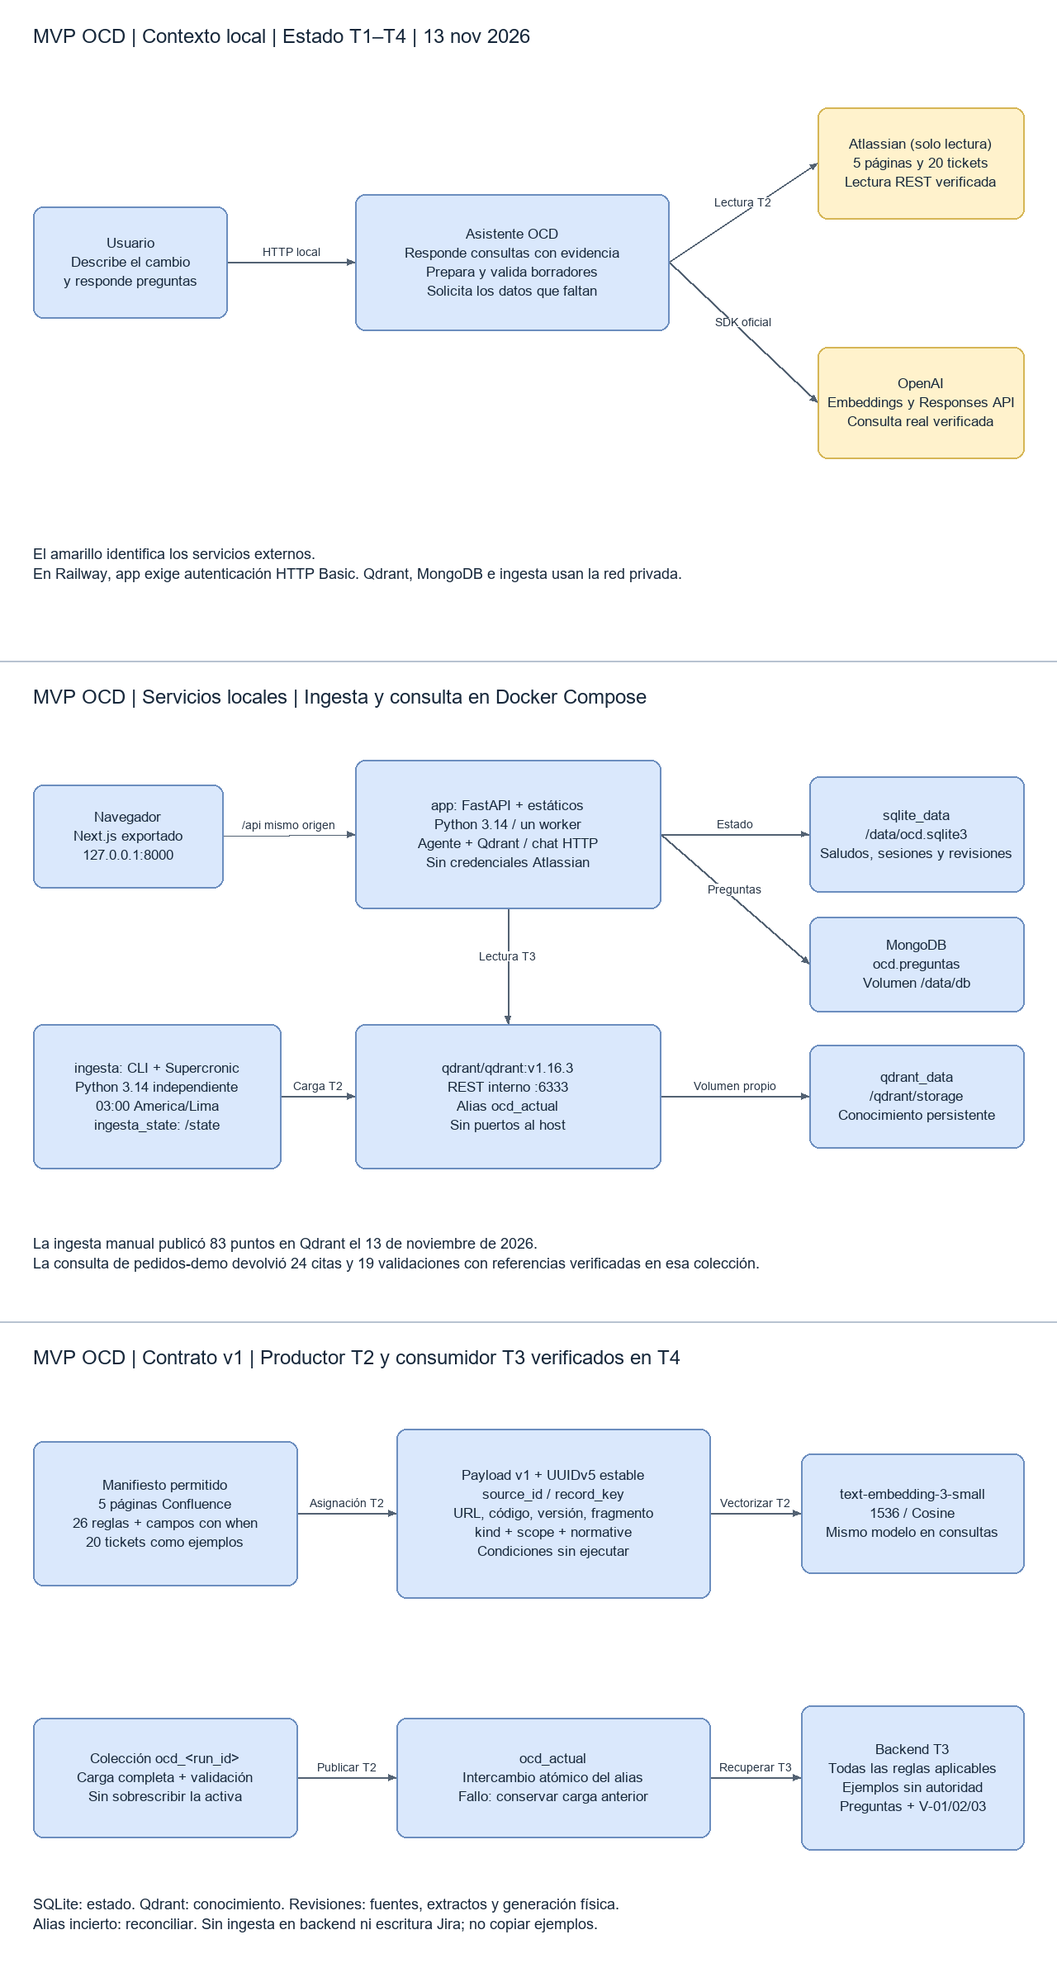
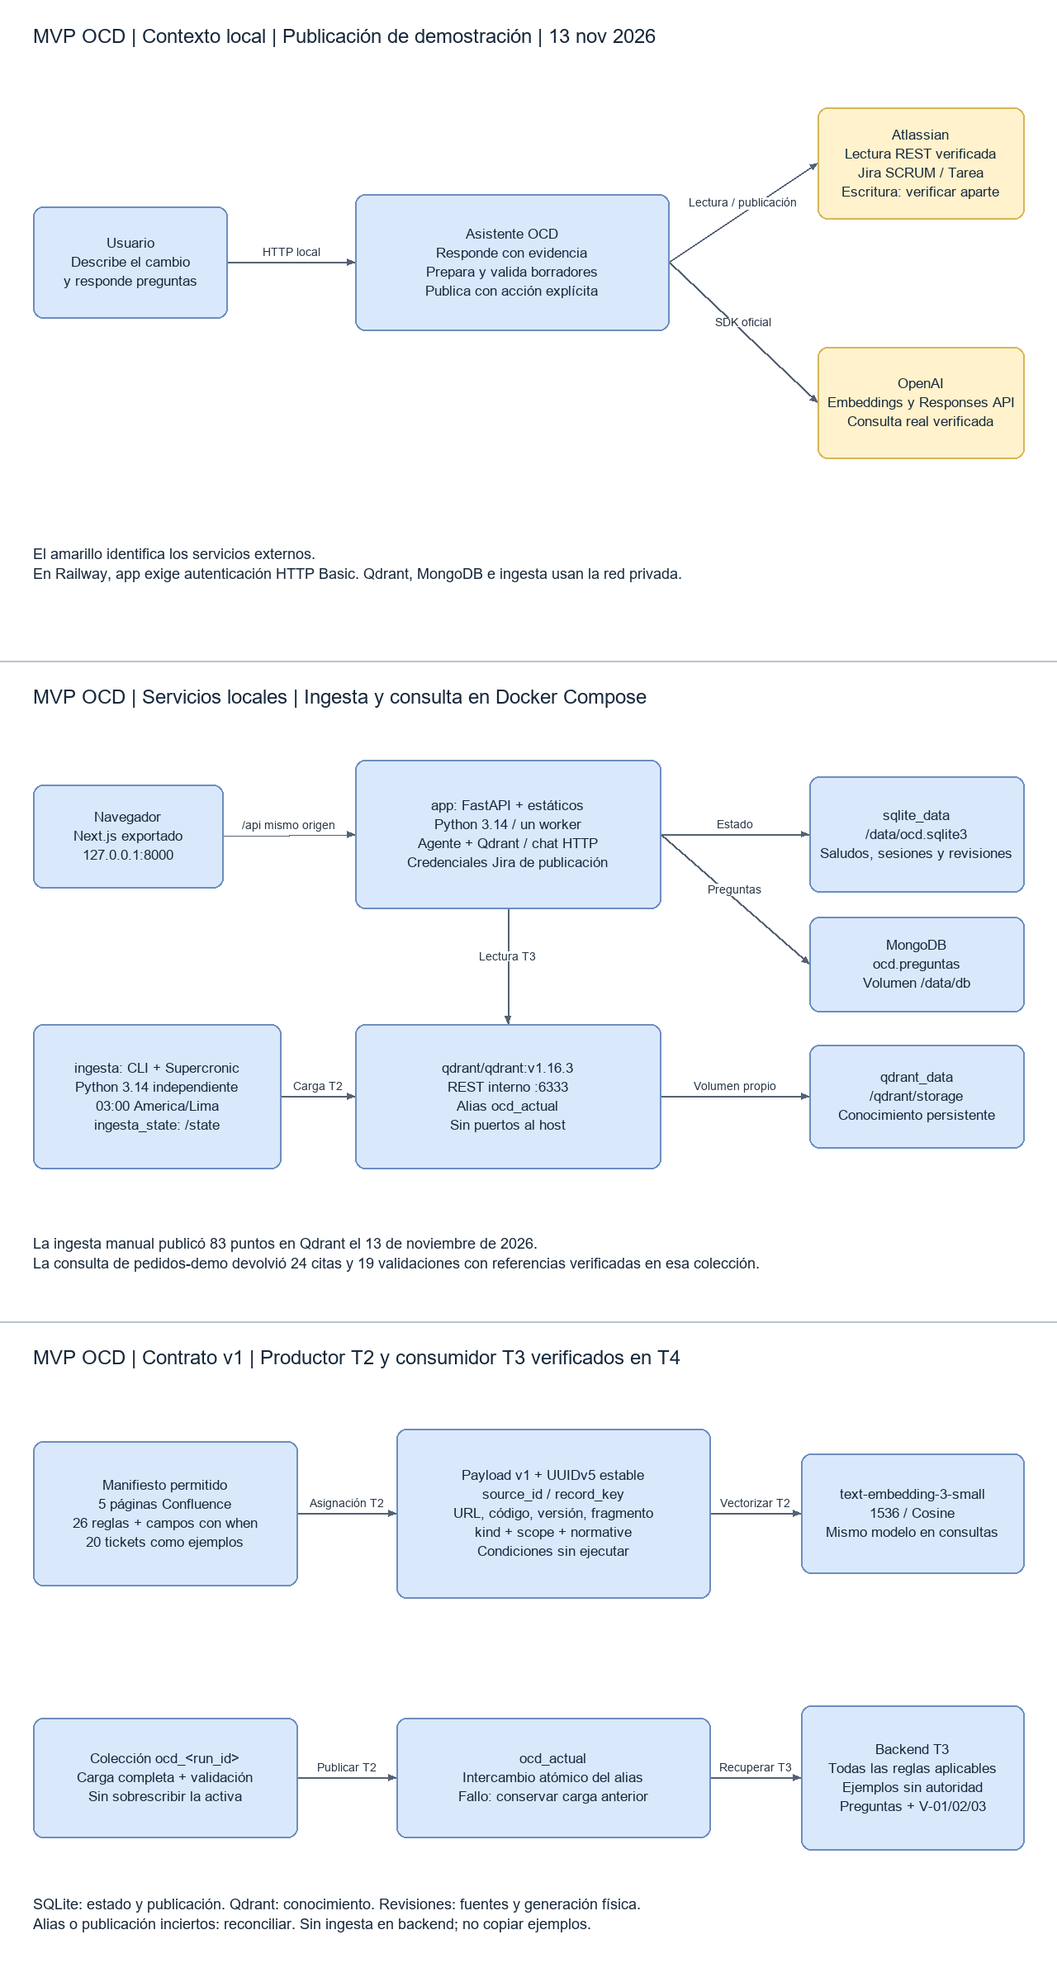
Documenta y verifica publicación OCD de demostración

diff --git a/scripts/acceptance/probe.py b/scripts/acceptance/probe.py
@@ -126,6 +126,30 @@ def main(phase: str) -> None:
             )
             EVIDENCE.write_text(json.dumps(evidence))
             double.post("/control", json={"atlassian": False}).raise_for_status()
+        elif phase == "publication":
+            first = app.post("/api/chat", json={"message": "Quiero un pase a producción"}).raise_for_status().json()
+            assert first["questions"] == ["¿Qué microservicio vas a pasar y qué versión quieres publicar?"]
+            assert first["preview"] is None
+            second = app.post("/api/chat", json={"message": "Pedidos, versión 1.9.0. Corrige la duplicación de pedidos."}).raise_for_status().json()
+            preview = second["preview"]
+            assert preview["title"] == "Pase a producción de Pedidos 1.9.0"
+            assert preview["pending"] == ["ventana", "responsable", "repositorio", "pruebas", "reversión"]
+            assert "Corrige la duplicación de pedidos." in preview["description"]
+            revision = second["revision"]
+            result = app.post(f"/api/chat/revisions/{revision}/publish")
+            assert result.status_code == 201, result.text
+            assert result.json() == {"key": "SCRUM-999", "url": "https://grupo-visai.atlassian.net/browse/SCRUM-999"}
+            fields = double.get("/captured").raise_for_status().json()["issues"][0]["fields"]
+            assert fields["project"] == {"key": "SCRUM"} and fields["issuetype"] == {"id": "10003"}
+            assert fields["summary"] == preview["title"]
+            nodes = fields["description"]["content"][0]["content"]
+            assert "".join("\n" if n["type"] == "hardBreak" else n["text"] for n in nodes) == preview["description"]
+            assert app.post(f"/api/chat/revisions/{revision}/publish").status_code == 200
+            assert len(double.get("/captured").json()["issues"]) == 1
+            assert app.get("/api/chat").json()["publication"] == result.json()
+            evidence = json.loads(EVIDENCE.read_text())
+            evidence.update(publication_cookie=app.cookies.get("ocd_session"), publication=result.json())
+            EVIDENCE.write_text(json.dumps(evidence))
         else:
             evidence = json.loads(EVIDENCE.read_text())
             app.cookies.set("ocd_session", evidence["cookie"], path="/api/chat")
@@ -151,6 +175,11 @@ def main(phase: str) -> None:
                 double.post("/control", json={"openai": True}).raise_for_status()
                 EVIDENCE.write_text(json.dumps(evidence | {"last_reviewed": result}))
             elif phase == "resume":
+                with httpx.Client(base_url="http://localhost:8000", timeout=15) as published:
+                    published.cookies.set("ocd_session", evidence["publication_cookie"], path="/api/chat")
+                    assert published.get("/api/chat").json()["publication"] == evidence["publication"]
+                    assert published.post("/api/chat/revisions/2/publish").status_code == 200
+                    assert len(double.get("/captured").json()["issues"]) == 1
                 assert app.get("/api/chat").json()["revision"] == 4
                 assert app.get("/api/chat/revisions/3").json() == evidence["last_reviewed"]
                 result = (

diff --git a/scripts/acceptance/server.py b/scripts/acceptance/server.py
@@ -11,6 +11,7 @@ from threading import Thread
 from urllib.parse import urlsplit
 
 STATE = {"atlassian": True, "openai": True}
+ISSUES = []
 
 
 def response(output: list[dict]) -> dict:
@@ -50,6 +51,9 @@ class Handler(BaseHTTPRequestHandler):
         if path == "/health":
             self.send(200, STATE)
             return
+        if path == "/captured":
+            self.send(200, {"issues": ISSUES})
+            return
         expected = base64.b64encode(b"acceptance@example.test:acceptance-fictional-token").decode()
         if self.headers.get("Authorization") != "Basic " + expected:
             self.send(401, {})
@@ -71,6 +75,14 @@ class Handler(BaseHTTPRequestHandler):
         if self.path == "/control":
             STATE.update(body)
             self.send(200, STATE)
+            return
+        if self.path == "/rest/api/3/issue":
+            expected = base64.b64encode(b"acceptance@example.test:acceptance-fictional-token").decode()
+            if self.headers.get("Authorization") != "Basic " + expected:
+                self.send(401, {})
+                return
+            ISSUES.append(body)
+            self.send(201, {"key": "SCRUM-999"})
             return
         if not STATE["openai"]:
             self.send(503, {"error": {"message": "Fallo sintético", "type": "server_error"}})
@@ -143,6 +155,19 @@ class Handler(BaseHTTPRequestHandler):
 def extraction(messages: list[dict]) -> dict:
     facts, categories = {}, {}
     for message in messages:
+        content = message["content"]
+        for scope, name, value, quote in (
+            ("comun", "ambiente_objetivo", "producción", "producción"),
+            ("microservicio", "microservicio", "Pedidos", "Pedidos"),
+            ("microservicio", "version_objetivo", "1.9.0", "1.9.0"),
+            ("comun", "objetivo", "Corrige la duplicación de pedidos.", "Corrige la duplicación de pedidos."),
+        ):
+            if quote in content:
+                facts[f"{scope}.{name}"] = {"scope": scope, "name": name, "value": value,
+                    "quote": quote, "message_id": message["id"]}
+        if "pase a producción" in content:
+            categories["microservicio"] = {"category": "microservicio", "selected": True,
+                "quote": "pase a producción", "message_id": message["id"]}
         for line in message["content"].splitlines():
             if "=" not in line:
                 continue

diff --git a/README.md b/README.md
@@ -5,7 +5,8 @@ integra PR de funcionalidades, releases y hotfix sin aprobaciones ni checks
 obligatorios. La publicación en Railway requiere verificar la entrega.
 
 Asistente local para preparar un borrador OCD mediante conversación, conocimiento
-Qdrant y validaciones Python V-01, V-02 y V-03. No crea tickets ni ejecuta cambios.
+Qdrant y validaciones Python V-01, V-02 y V-03. Permite publicar una vista previa
+confirmada como Tarea Jira; no ejecuta cambios de infraestructura.
 
 T1 integra Qdrant y el contrato; T2 implementa ingesta independiente, CLI y cron;
 T3 implementa sesiones, extracción mediante Responses API y revisión persistente.
@@ -14,8 +15,8 @@ El 13 de noviembre de 2026, la ingesta real publicó 83 puntos en Qdrant a parti
 En una consulta de microservicios coincidieron las 24 citas del agente y las referencias de sus 19 validaciones con los puntos publicados.
 Consulta la [evidencia de la ingesta real y el cotejo de citas](docs/verificacion_t4.md#ingesta-real-y-verificación-de-citas).
 La interfaz NexoOPS permite conversar con el agente y buscar procedimientos.
-Mantiene un borrador real por sesión. Los tickets de ejemplo y las vistas de agenda
-y vista previa son demostraciones; no consultan ni crean tickets Jira.
+Mantiene un borrador real por sesión. Los tickets de ejemplo y la agenda son demostraciones.
+La vista previa del chat corresponde a la revisión guardada y permite publicarla.
 
 ## Configurar y ejecutar
 
@@ -32,11 +33,14 @@ para construir las imágenes. Copia `.env.example` a `.env`. Configura:
 | `OPENAI_MODEL` | Modelo de conversación; decisión actual `gpt-6-luna`. |
 | `ATLASSIAN_BASE_URL` | Origen HTTPS autorizado: `https://grupo-visai.atlassian.net`. |
 | `ATLASSIAN_EMAIL`, `ATLASSIAN_API_TOKEN` | Solo ingesta; permiso de lectura sobre las 25 fuentes autorizadas. |
+| `JIRA_BASE_URL` | Destino autorizado `https://grupo-visai.atlassian.net`. |
+| `JIRA_EMAIL`, `JIRA_API_TOKEN` | Credenciales de publicación del backend; Compose recurre a las credenciales de ingesta si se omiten. |
+| `JIRA_PROJECT_KEY`, `JIRA_ISSUE_TYPE_ID` | Destino fijado a `SCRUM` y tipo Tarea `10003`. |
 | `QDRANT_ALIAS` | Contrato v1: `ocd_actual`. |
 | `OPENAI_EMBEDDING_MODEL` | Contrato v1: `text-embedding-3-small`, 1536 dimensiones/Cosine. |
 
-No guardar credenciales en Git ni usar `NEXT_PUBLIC_*`. El backend no recibe
-credenciales Atlassian: consulta el corpus ya publicado. Sin clave OpenAI o sin
+No guardar credenciales en Git ni usar `NEXT_PUBLIC_*`. El backend consulta el
+corpus ya publicado y usa credenciales Jira para publicar. Sin clave OpenAI o sin
 primera carga válida, chat/búsqueda devuelven 503; salud y saludo siguen disponibles.
 
 Desde la raíz:
@@ -53,6 +57,19 @@ Abre [la aplicación local](http://127.0.0.1:8000) y
 Supercronic ejecuta `ocd-ingestar` cada día a las 03:00 `America/Lima`.
 El bloqueo compartido evita cargas solapadas. Una máquina apagada no recupera
 horarios omitidos: ejecuta la CLI manualmente. Consulta la [guía de ingesta](ingesta/README.md).
+
+Para revisar la candidata integrada en el proyecto local de demostración, con el
+archivo de entorno ya configurado y sin ejecutar una ingesta adicional:
+
+```powershell
+$env:APP_PORT = '3001'
+docker compose -p ocd-demo-preview --env-file C:/Desarrollo/grupo-visa-ai/.env up -d --build --wait app
+```
+
+Abre [la candidata](http://localhost:3001). Escribe «Quiero un pase a producción»;
+cuando pregunte por servicio y versión, responde «Pedidos, versión 1.9.0. Corrige
+la duplicación de pedidos.». Revisa la vista previa y los pendientes antes de decidir
+si publicas. El botón de publicación usa las credenciales Jira configuradas en `app`.
 
 ```powershell
 docker compose up -d --force-recreate --wait
@@ -112,6 +129,7 @@ No se reutilizan identificadores ni evidencias de tickets históricos como datos
 | `POST /api/chat` | Recibe `{"message":"..."}` y devuelve `answer`, el borrador y la evidencia aplicable al turno. Un fallo al registrar la pregunta o consultar una dependencia puede devolver 503. |
 | `GET /api/chat` | Última revisión de la sesión, incluida una revisión indisponible. |
 | `GET /api/chat/revisions/{revision}` | Revisión histórica de la misma sesión, conservada aunque fallen servicios o cambie el alias. |
+| `POST /api/chat/revisions/{revision}/publish` | Publica la vista previa vigente de la sesión como Tarea SCRUM; devuelve clave y enlace. Una repetición confirmada recupera el resultado. |
 | `GET /api/integrations` | Presencia de configuración del proceso backend; no prueba conexiones ni inspecciona el entorno de ingesta. |
 
 Si falla Atlassian, la consulta y el chat siguen usando la última colección válida,
@@ -173,6 +191,10 @@ powershell -NoProfile -File scripts/Test-QdrantPersistence.ps1
 La aceptación T4 no requiere credenciales reales: HTTPS Atlassian usa un certificado
 y snapshots de prueba; OpenAI usa respuestas y vectores sintéticos. Qdrant, la CLI,
 Responses SDK, FastAPI, cookies, SQLite y recreación de contenedores sí se ejecutan.
+El mismo proyecto aislado comprueba el pase de Pedidos 1.9.0 y la publicación
+HTTP contra Jira simulado, con credenciales y certificado ficticios. Comprueba el
+contenido ADF, la clave, el enlace y la recuperación sin duplicar el POST. No verifica
+la escritura ni los permisos del Jira real.
 El script elimina exclusivamente su propio proyecto `ocd-t4-<UUID>` y sus volúmenes.
 El frontend se construye mediante el Dockerfile normal con TypeScript y Next.js;
 no se copian archivos compilados del proyecto principal.

diff --git a/docs/MVP_OCD_Arquitectura.md b/docs/MVP_OCD_Arquitectura.md
@@ -1,11 +1,12 @@
 # Arquitectura MVP OCD — Compose y Railway
 
-Versión 0.6. Fecha: 13 de noviembre de 2026. Estado T1–T4.
+Versión 0.7. Fecha: 13 de noviembre de 2026. Estado T1–T4 y publicación local de demostración.
 
 ## 1. Alcance y estado
 
 La solución prepara un borrador OCD, solicita datos desconocidos y ejecuta
-V-01/02/03 con fuentes y versiones. No crea tickets Jira ni ejecuta infraestructura.
+V-01/02/03 con fuentes y versiones. La revisión vigente puede publicarse por
+acción explícita como Tarea Jira en SCRUM. No ejecuta infraestructura.
 En la red privada de Railway se verificó la carga de 83 puntos y la coincidencia
 de las 24 citas y 19 referencias de una consulta. El entorno incorpora aplicación,
 ingesta, Qdrant y MongoDB, con cuatro volúmenes persistentes.
@@ -23,7 +24,8 @@ conserva las propuestas anteriores de creación Jira y Railway.
 | Aceptación integrada | T4: Qdrant real y REST dobles; evidencia en `docs/verificacion_t4.md`. |
 | Servicios externos autenticados | Lectura REST de Confluence y Jira, embeddings y Responses API verificados en Compose local. |
 | Procedencia y relevancia | Las citas de una consulta coinciden con Qdrant. La evaluación general de relevancia sigue pendiente. |
-| Creación Jira y ejecución de cambios de infraestructura desde el agente | Fuera del alcance del MVP. |
+| Publicación Jira | Implementada para vista previa vigente, sesión propietaria y destino SCRUM/Tarea (10003); la escritura real requiere verificación independiente. |
+| Ejecución de cambios de infraestructura | Fuera del alcance. |
 
 T4 identificó y corrigió la diferencia entre las condiciones publicadas por T2
 y las firmas de reglas/fixtures del consumidor T3. La aceptación usa el índice
@@ -50,8 +52,12 @@ no publica 6333/6334. La red permite llamadas salientes. Node.js 24 interviene s
 en compilación; Python 3.14 ejecuta ambos proyectos independientes, con sus bloqueos.
 HTTPX evita un SDK Qdrant adicional. Backend e ingesta no importan código entre sí.
 
-El backend no descarga Atlassian ni ejecuta ingesta al arrancar. Compose entrega las
-credenciales Atlassian exclusivamente a ingesta. La API `/api/integrations` describe
+El backend no descarga Atlassian ni ejecuta ingesta al arrancar. Ingesta usa
+`ATLASSIAN_EMAIL` y `ATLASSIAN_API_TOKEN` para lectura; app usa `JIRA_EMAIL` y
+`JIRA_API_TOKEN` para escritura. Compose puede recurrir a las credenciales de lectura
+si las variables Jira se omiten. `JIRA_BASE_URL` debe ser `https://grupo-visai.atlassian.net`,
+`JIRA_PROJECT_KEY` debe ser `SCRUM` y `JIRA_ISSUE_TYPE_ID` debe ser `10003`.
+La API `/api/integrations` describe
 solo configuración del backend: los estados Jira/Confluence no inspeccionan ingesta,
 no prueban conectividad y no deben interpretarse como estado de su carga.
 `/api/health` verifica SQLite y estáticos sin llamadas externas ni datos de negocio.
@@ -104,6 +110,7 @@ impide consulta/chat del corpus publicado si Qdrant y OpenAI siguen disponibles.
    más recientes y permite retirar explícitamente categorías. No ejecuta red dentro de escrituras SQLite.
 5. Para revisar un borrador, el agente recupera conocimiento de Qdrant y Python ejecuta V-01, V-02 y V-03. El agente arma la respuesta con lo declarado por el solicitante y la evidencia disponible. Una consulta sin respaldo recibe una respuesta de información insuficiente.
 6. La API devuelve `answer` en el contrato habitual. Los turnos informativos conservan la revisión del borrador. Los cambios al borrador y sus validaciones se conservan en SQLite.
+7. Para un pase a producción con servicio y versión, sin errores, se guarda una vista previa con datos pendientes. El usuario puede publicar la revisión vigente mediante `POST /api/chat/revisions/{revision}/publish`. El backend envía título y descripción en ADF a Jira, guarda clave y enlace y reconcilia resultados inciertos sin repetir el POST.
 
 El único proceso backend serializa mensajes de una misma sesión; sesiones distintas
 pueden progresar de forma independiente. Lotes extraídos solapados se filtran por
@@ -161,6 +168,8 @@ docker compose --profile test run --build --rm tests ruff check --no-cache app t
 
 La prueba automatizada T4 usa Qdrant real y servidores de prueba para Atlassian y OpenAI.
 La prueba posterior utilizó las API externas reales para la carga manual y un turno de chat HTTP.
+Esa evidencia acredita lectura e inferencia, no creación real de tickets. La escritura
+debe probarse con un servidor Jira simulado; una prueba simulada no acredita permisos reales.
 La interfaz usa `POST /api/chat` para enviar mensajes y `GET /api/chat` para
 recuperar la última revisión al abrir la página. La observación del cron de las 03:00 de Lima sigue pendiente.
 

diff --git a/AGENTS.md b/AGENTS.md
@@ -22,7 +22,8 @@ Consulta la [evidencia y sus límites](docs/verificacion_t4.md#ingesta-real-y-ve
 La búsqueda HTTP usa Qdrant; SQLite conserva saludos, sesiones, mensajes y revisiones.
 La carga FTS5 queda como código legado sin uso en rutas. El frontend sirve el chat
 y la búsqueda de procedimientos desde el mismo origen que la API.
-El alcance local termina con el borrador validado, sin crear tickets. En Railway se verificaron los tres servicios, la ingesta y las citas en la red privada.
+T1–T4 terminaron con el borrador validado, sin crear tickets. La etapa posterior
+incorpora vista previa y publicación explícita de una Tarea Jira en SCRUM. En Railway se verificaron los tres servicios, la ingesta y las citas en la red privada; esa evidencia no verifica escritura Jira.
 Antes de extender capacidades, verifica estos estados en el código.
 
 ## Arquitectura y responsabilidades
@@ -83,6 +84,7 @@ Estas reglas se aplican a las integraciones implementadas y sus extensiones:
 - Limita las lecturas a las páginas y tickets configurados.
 - El alcance local T1–T3 solo lee Atlassian. No crear tickets ni implementar `crear_ticket`.
 - Conserva `buscar_conocimiento` y `validar_ocd`, las preguntas y el borrador.
+- La publicación vigente usa `POST /api/chat/revisions/{revision}/publish` y el destino autorizado SCRUM/Tarea (10003). Conserva la vista previa, pertenencia a sesión e idempotencia; prueba la escritura con dobles.
 - Ejecuta V-01, V-02 y V-03 en el backend: completitud condicional, consistencia técnica y trazabilidad del procedimiento.
 - Conserva los estados `CUMPLE`, `FALTA_INFORMACION`, `ERROR` y `NO_VERIFICABLE`.
 - Presenta el borrador, las fuentes, los faltantes y los resultados; no infieras permisos ni ejecución real.

diff --git a/docs/verificacion_d6.md b/docs/verificacion_d6.md
@@ -1,0 +1,24 @@
+# Verificación local de la demostración OCD
+
+Fecha: 13 de noviembre de 2026. Base integrada: `d1e2aaa4ea292cab841e2a46ada5a79237af52a9`.
+
+En `ocd-demo-preview`, puerto 3001, se reconstruyó solo `app` y se conservó el
+corpus existente. En el navegador, con la configuración real, «Quiero un pase a
+producción» produjo una pregunta por el microservicio y la versión. La respuesta
+«Pedidos, versión 1.9.0. Corrige la duplicación de pedidos.» produjo la vista previa
+de la Tarea SCRUM, con esos datos y cinco pendientes: ventana, responsable,
+repositorio, pruebas y reversión. El detalle mostró 24 fuentes y 19 validaciones.
+Se revisaron escritorio, móvil, barra izquierda y cierre del detalle con Escape y
+retorno del foco. No se accionó la publicación real. No se cronometró este recorrido.
+
+La aceptación aislada usa Qdrant, SQLite, MongoDB y aplicación reales en contenedores,
+con Atlassian y OpenAI simulados. El doble Jira captura el POST: se comparan título
+y descripción ADF con la vista previa, destino, clave y enlace simulados; se comprueba
+que la repetición y la recuperación tras recrear `app` no crean otro ticket. Esto no
+acredita credenciales, permisos ni escritura en Jira real. La evidencia anterior de
+lectura real y citas permanece en [T4](verificacion_t4.md#ingesta-real-y-verificación-de-citas).
+El enlace simulado se comprobó en la respuesta; no se abrió en un navegador.
+
+La ejecución aislada pasó 106 pruebas de backend y Ruff; la prueba de ingesta pasó
+36 pruebas y Ruff. TypeScript y la compilación estática pasaron en Docker. Las 13
+pruebas de Gitflow pasaron en Node local.

diff --git a/frontend/BACKEND.md b/frontend/BACKEND.md
@@ -12,6 +12,11 @@ La aplicación mantiene una conversación real por sesión. Los ejemplos de tick
 son vistas de demostración y no cambian el borrador. `reviewed` indica una revisión
 documental, no una autorización ni la ejecución del pase.
 
+La vista previa de una revisión vigente permite publicar con
+`POST /api/chat/revisions/{revision}/publish`, conservando la cookie de sesión.
+La respuesta contiene la clave y el enlace Jira; una publicación confirmada se
+recupera al consultar de nuevo la revisión. Publicar no ejecuta el cambio.
+
 Las credenciales se configuran en el backend. En Railway, el navegador autentica
 al usuario `demo` mediante HTTP Basic. No crear `.env.local` con credenciales ni
 publicar valores sensibles mediante `NEXT_PUBLIC_*`.

diff --git a/frontend/README.md b/frontend/README.md
@@ -4,8 +4,8 @@ La interfaz permite consultar procedimientos y preparar un borrador OCD con sus
 fuentes, preguntas y validaciones. Conserva un borrador real por sesión del
 navegador y recupera su última revisión al recargar.
 
-Los tickets de ejemplo, la agenda y la vista previa son demostraciones. El agente
-no crea tickets, reserva recursos ni ejecuta infraestructura.
+Los tickets de ejemplo y la agenda son demostraciones. La vista previa del chat
+permite publicar la revisión vigente como Tarea Jira; no ejecuta infraestructura.
 
 La imagen Docker utiliza Node.js 24 para compilar TypeScript y exportar Next.js.
 FastAPI distribuye el directorio `out`; Node.js no interviene en la ejecución.
